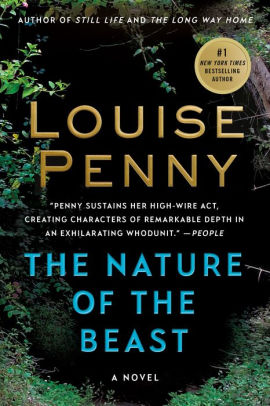
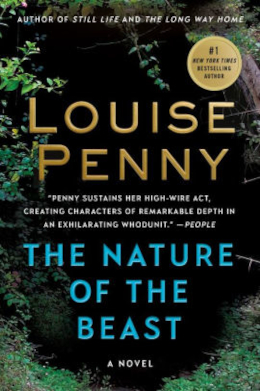
Big update to books reading log
* Updated yaml database with latest reads
* Resized all the available book covers to have a consistent width
* Updated generate_book_stats.py, close to being complete

diff --git a/books/generate_book_stats.py b/books/generate_book_stats.py
@@ -2,19 +2,42 @@
 
 import argparse
 import os
+import glob
+import numpy as np
 import matplotlib.colors as mcolors
 import matplotlib.dates as mdates
 import matplotlib.pyplot as plt
+import matplotlib.transforms as mtrans
+from matplotlib.offsetbox import AnnotationBbox
+from matplotlib.offsetbox import OffsetImage
 import yaml
 
 from datetime import date
+from matplotlib import font_manager as fm, rcParams
 
 plt.style.use('seaborn-darkgrid')
+
+# Global font inclusions
+font_dir = "C:\\Users\\spies\\AppData\\Local\\Microsoft\\Windows\\Fonts"
+font_files = fm.findSystemFonts(fontpaths=font_dir)
+font_list = fm.createFontList(font_files)
+fm.fontManager.ttflist.extend(font_list)
 
 # Genre colormap
 genre_colors = { 'Nonfiction' : 'tab:cyan',
                  'Fiction'    : 'tab:orange',
                  'Technical'  : 'tab:purple' }
+
+
+def month_day_splits(year):
+  """This function will return a list containing the number of the first
+  day for each month in the target year.
+  """
+  month_days = []
+  for i in range(1, 13):
+    month_days.append(date(year, i, 1).timetuple().tm_yday)
+  return month_days
+
 
 def main():
   """
@@ -28,18 +51,26 @@ def main():
                       default=current_year)
   args = parser.parse_args()
 
-  filepath = os.path.realpath("book_reading_log.yaml")
-  if os.path.isfile(filepath):
-    print(">> Parsing YAML file at [ " + filepath + " ]...")
+  yaml_path = os.path.realpath("book_reading_log.yaml")
+  if os.path.isfile(yaml_path):
+    print(">> Parsing YAML file at [ " + yaml_path + " ]...")
   else:
-    print(">> [ERROR] Unable to find any YAML file at [ " + filepath + " ].")
+    print(">> [ERROR] Unable to find any YAML file at [ " + yaml_path + " ].")
     return
 
-  # Initializations used for data gathering
+  cover_dir = os.path.join(os.path.realpath("."), "covers")
+
+  # Date-time handling
+  months_in_year = ["January", "February", "March", "April", "May", "June", "July", "August", "September", "October",
+                    "November", "December"]
+  days_in_year = (date((args.year + 1), 1, 1) - date(args.year, 1, 1)).days
+  first_days_of_month = month_day_splits(args.year)
+
+  # Initializations used for data presentation
   relevant_entries = []
 
   # Load the file into our YAML parser
-  with open(filepath, 'r') as yaml_file:
+  with open(yaml_path, 'r') as yaml_file:
     data = yaml.load(yaml_file, Loader=yaml.FullLoader)
     yaml_file.close()
 
@@ -54,33 +85,61 @@ def main():
     if (book['started'].year == args.year or book['finished'].year == args.year):
       relevant_entries.append(book)
 
-  # Set up the plot infrastructure
+  # Set up the plot infrastructure (plot figure is set to 25.6 W x 19.2 H or a 1.333:1 aspect ratio)
   fig, axes = plt.subplots()
+  fig.set_figheight(19.2)
+  fig.set_figwidth(25.6)
+  plt.subplots_adjust(left=0.15, bottom=0.1, right=0.95, top=0.9, wspace=1, hspace=1)
 
   # Create a plot for each book in the relevant entries
   book_titles = []
   for count, entry in enumerate(relevant_entries, 1):
     # Pertinent book details
-    book_titles.append(entry['title'] + "\n" + entry['author'] + "\n" + "{} pages".format(entry['pages']))
+    book_titles.append(entry['title'] + "\n" + entry['author'] + " - " + entry['genre'] + "\n" + "({} pages)".format(entry['pages']))
     book_color = genre_colors[entry['genre']]
-    days_to_read = (entry['finished'] - entry['started']).days
+    start_day = entry['started'].timetuple().tm_yday
+    end_day = entry['finished'].timetuple().tm_yday
+    days_to_read = end_day - start_day
 
     # Length of time reading the book
-    axes.broken_barh([(entry['started'], days_to_read)], (count - 0.2, 0.4), color=book_color)
+    axes.broken_barh([(start_day, days_to_read)], (count - 0.2, 0.4), color=book_color)
+
+    # Annotations showing the book covers
+    entry_isbn = entry['isbn'] + '.jpg'
+    cover_img = plt.imread(os.path.join(cover_dir, entry_isbn), format='jpg')
+    cover_img_box = OffsetImage(cover_img, zoom=0.25)
+
+    cover_anno_pos = (start_day - 9, count)
+    cover_anno = AnnotationBbox(cover_img_box, cover_anno_pos, xycoords='data')
+    axes.add_artist(cover_anno)
 
   # Table formatting
-  axes.set_xlim(date(args.year, 1, 1), date(args.year, 12, 31))
-  axes.set_xticklabels(["January", "February", "March", "April", "May", "June", "July", "August", "September",
-                        "October", "November", "December"], fontname="Myriad Hebrew")
+  ## X-Axis
+  axes.set_xlim(1, days_in_year)
+  axes.set_xticks(first_days_of_month)
+  axes.set_xticklabels(months_in_year, fontname="Open Sans SemiBold", fontsize=18)
+  plt.xticks(rotation=45)
+
+  ## Shift the X-axis tick labels
+  x_offset = mtrans.ScaledTranslation(50/72, -10/72, fig.dpi_scale_trans)
+  for label in axes.xaxis.get_majorticklabels():
+    label.set_transform(label.get_transform() + x_offset)
+
+  ## Y-Axis
   axes.set_ylim(0, len(relevant_entries) + 1.0)
   axes.set_yticks(list(range(1, len(relevant_entries) + 1)))
-  axes.set_yticklabels(book_titles, fontname="Myriad Pro", fontsize=11, fontstyle="italic", fontweight="bold")
-  axes.set_title("Books Read in the Year {}".format(args.year), fontname="Myriad Pro", fontsize=18)
+  axes.set_yticklabels(book_titles, fontname="Open Sans SemiBold", fontsize=18, fontstyle="italic")
 
-  plt.xticks(rotation=45)
-  plt.tight_layout()
-  plt.show()
-  #plt.savefig("test.png")
+  ## Shift the Y-axis tick labels
+  y_offset = mtrans.ScaledTranslation(-10/72, 0/72, fig.dpi_scale_trans)
+  for label in axes.yaxis.get_majorticklabels():
+    label.set_transform(label.get_transform() + y_offset)
+
+  ## Title Bar
+  axes.set_title("Books Read in the Year {}".format(args.year), fontname="Montserrat ExtraBold", fontsize=36, pad=30)
+
+  # Save the figure in a local image file
+  plt.savefig('reading_log_{}.png'.format(args.year), format='png')
 
   return
 
